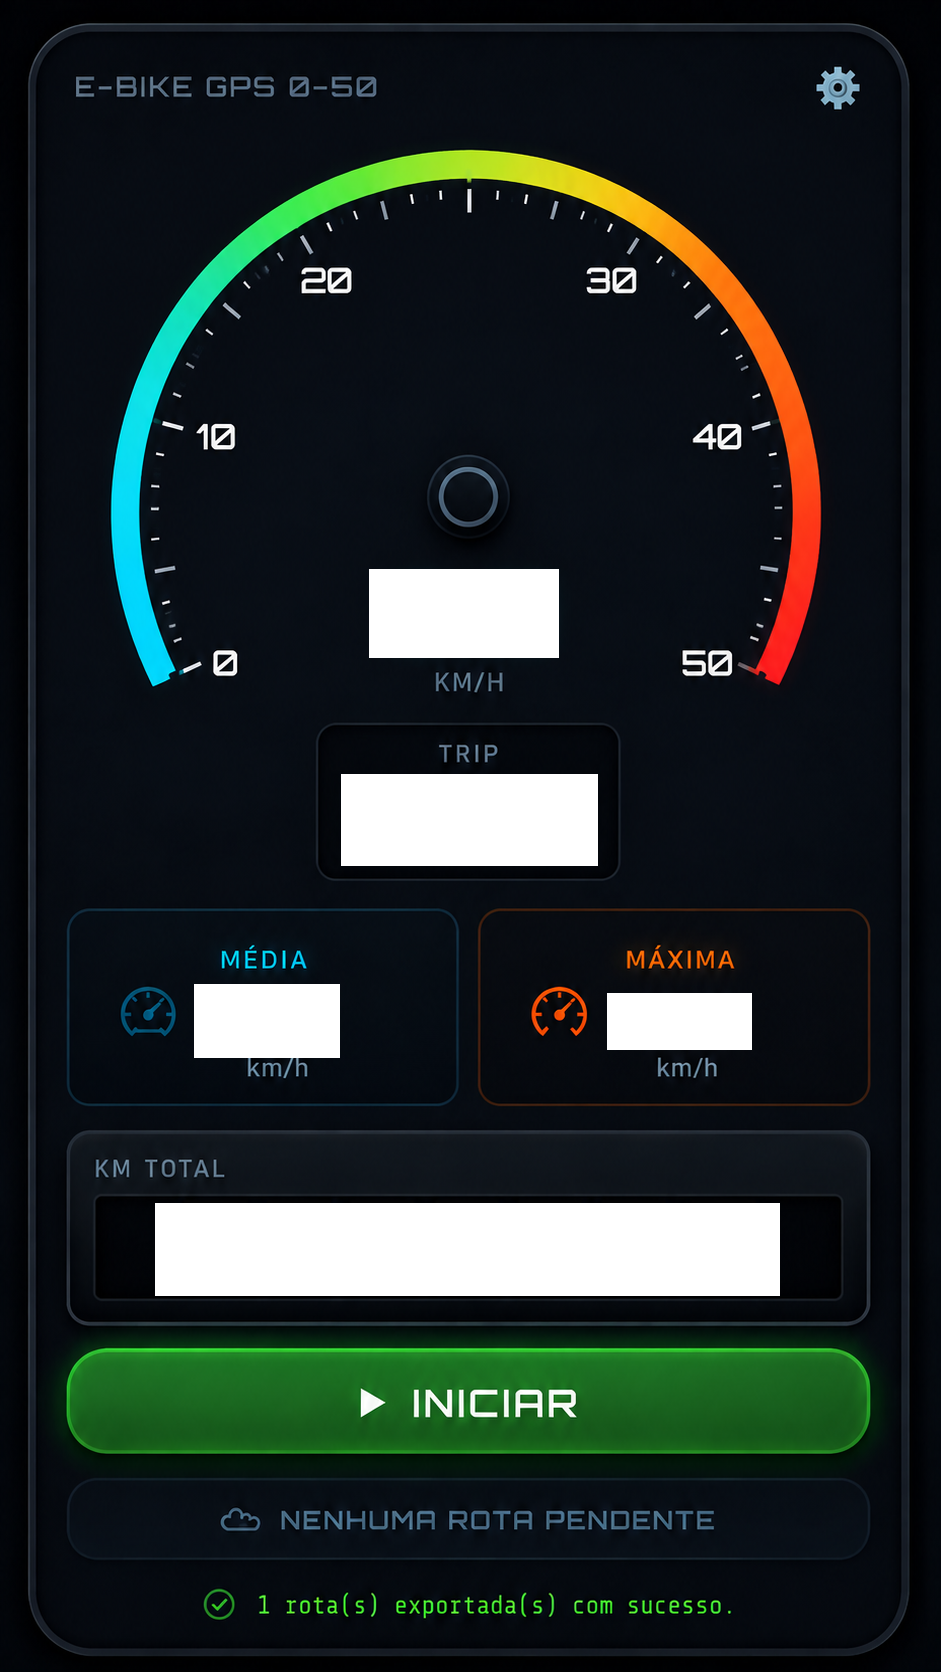
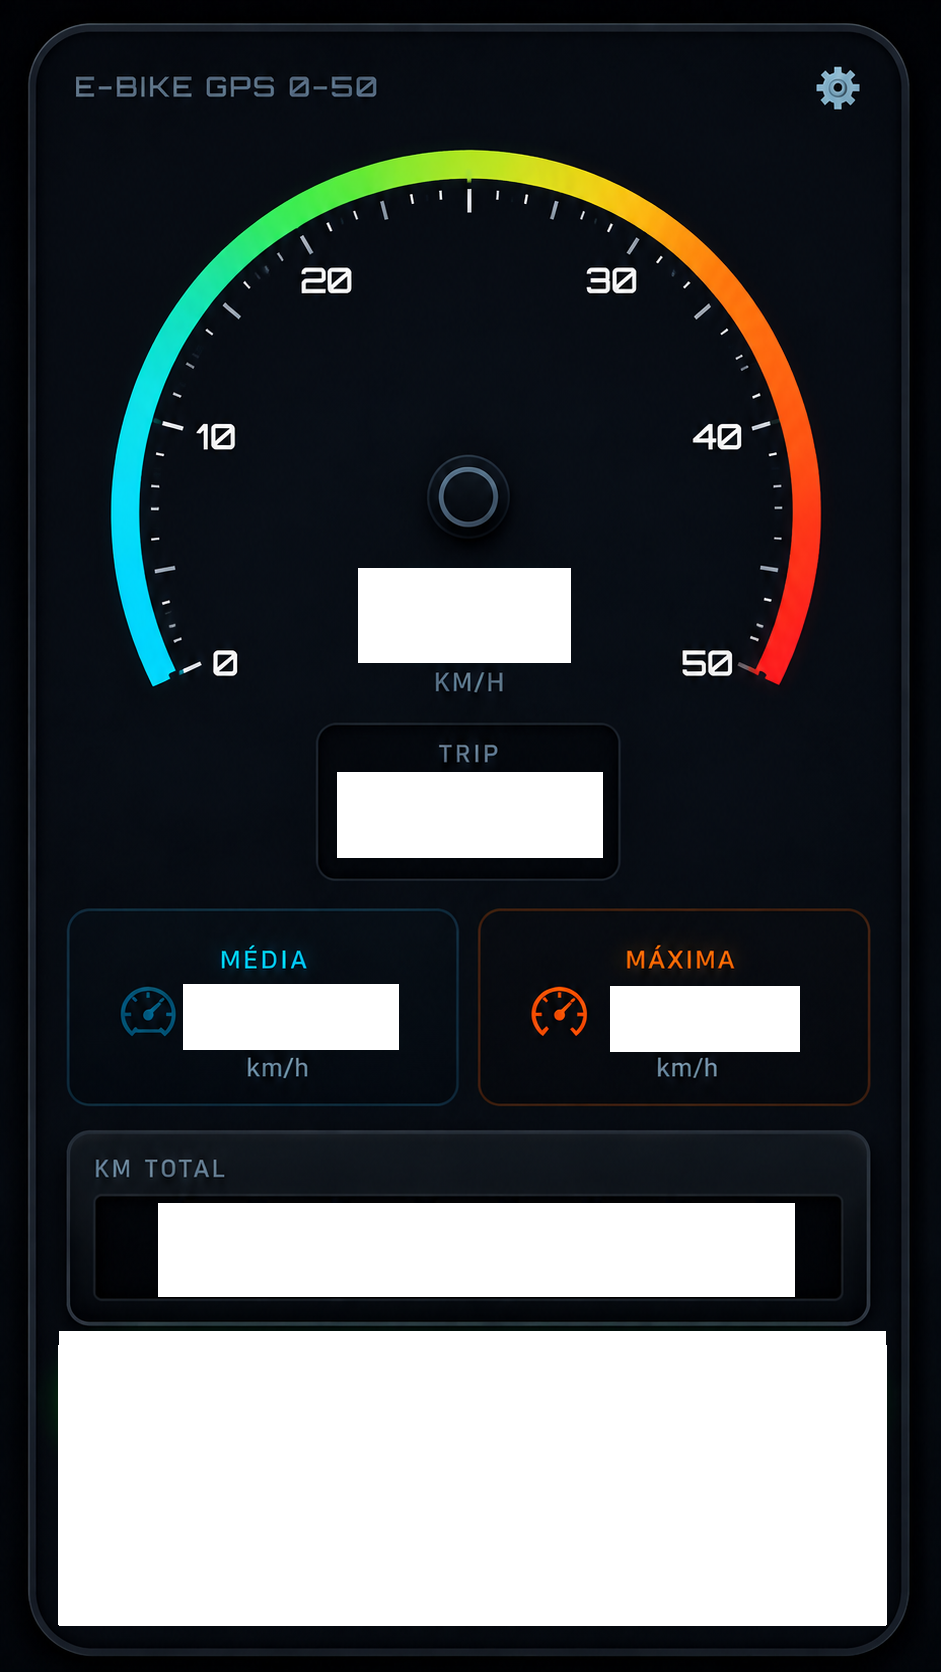
Atualização dos botoes e fundo

diff --git a/index.html b/index.html
@@ -28,7 +28,7 @@
             position: relative;
             width: 380px;
             height: 680px;
-            background-image: url('fundo.png'); /* Sua imagem ajustada com escala 0-50 */
+            background-image: url('fundo.png'); /* Sua imagem base */
             background-size: contain;
             background-repeat: no-repeat;
             background-position: center;
@@ -189,73 +189,124 @@
             margin: 0 -1px;
         }
 
-        /* --- CONTROLES SOBREPOSTOS (BOTÕES DO PNG) --- */
-        .btn-control-overlay {
+        /* --- OVERLAY 6: CONTROLES ESTILIZADOS SOBREPOSTOS --- */
+        .controls-wrapper {
             position: absolute;
-            top: 541px;
-            left: 30px;
-            width: 320px;
-            height: 44px;
-            background: transparent;
-            border: none;
+            top: 538px;
+            left: 25px;
+            width: 330px;
+            display: flex;
+            flex-direction: column;
+            gap: 12px;
+            align-items: center;
+            z-index: 10;
+        }
+
+        .btn-row {
+            display: flex;
+            width: 100%;
+            gap: 10px;
+        }
+
+        /* Botão INICIAR / PAUSAR */
+        .btn-control-overlay {
+            flex: 1;
+            height: 46px;
+            background: linear-gradient(180deg, #2e7d32 0%, #1b5e20 100%);
+            border: 1px solid #4caf50;
+            border-radius: 23px;
             cursor: pointer;
-            z-index: 5;
             font-family: 'Orbitron', sans-serif;
-            font-size: 1rem;
+            font-size: 0.95rem;
             font-weight: 900;
             letter-spacing: 2px;
             color: #ffffff;
             display: flex;
             align-items: center;
             justify-content: center;
-            text-shadow: 0 2px 4px rgba(0,0,0,0.8);
+            text-shadow: 0 2px 4px rgba(0,0,0,0.6);
+            box-shadow: 0 4px 15px rgba(46, 125, 50, 0.4), inset 0 1px 1px rgba(255, 255, 255, 0.3);
+            transition: all 0.2s ease;
         }
 
+        .btn-control-overlay:hover {
+            background: linear-gradient(180deg, #388e3c 0%, #2e7d32 100%);
+            box-shadow: 0 6px 20px rgba(76, 175, 80, 0.6), inset 0 1px 1px rgba(255, 255, 255, 0.4);
+        }
+
+        .btn-control-overlay:active {
+            transform: scale(0.98);
+        }
+
+        /* Estado quando está em PAUSA */
+        .btn-control-overlay.paused {
+            background: linear-gradient(180deg, #f57c00 0%, #e65100 100%);
+            border-color: #ff9800;
+            box-shadow: 0 4px 15px rgba(245, 124, 0, 0.4);
+        }
+
+        /* Botão PARAR */
         .btn-stop-overlay {
-            position: absolute;
-            top: 541px;
-            left: 270px;
-            width: 80px;
-            height: 44px;
-            background: linear-gradient(180deg, #ff1744 0%, #b2102f 100%);
-            border: none;
-            border-radius: 22px;
+            width: 90px;
+            height: 46px;
+            background: linear-gradient(180deg, #d32f2f 0%, #b71c1c 100%);
+            border: 1px solid #ef5350;
+            border-radius: 23px;
             color: white;
             font-family: 'Orbitron', sans-serif;
             font-size: 0.8rem;
             font-weight: 900;
             cursor: pointer;
-            z-index: 6;
-            box-shadow: 0 4px 15px rgba(255, 23, 68, 0.4);
+            box-shadow: 0 4px 15px rgba(211, 47, 47, 0.4), inset 0 1px 1px rgba(255, 255, 255, 0.3);
+            transition: all 0.2s ease;
         }
 
+        .btn-stop-overlay:hover {
+            background: linear-gradient(180deg, #e53935 0%, #c62828 100%);
+            box-shadow: 0 6px 20px rgba(239, 83, 80, 0.6);
+        }
+
+        /* Botão EXPORTAR ROTAS */
         .btn-export-overlay {
-            position: absolute;
-            top: 597px;
-            left: 30px;
-            width: 320px;
-            height: 32px;
-            background: transparent;
-            border: none;
-            color: #4db3c2;
+            width: 100%;
+            height: 38px;
+            background: linear-gradient(180deg, #102a38 0%, #071722 100%);
+            border: 1px solid #1c4e68;
+            border-radius: 19px;
+            color: #00d8ff;
             font-family: 'Share Tech Mono', monospace;
-            font-size: 0.75rem;
+            font-size: 0.8rem;
+            font-weight: bold;
+            letter-spacing: 1px;
             cursor: pointer;
-            z-index: 5;
             display: flex;
             align-items: center;
             justify-content: center;
+            box-shadow: 0 4px 12px rgba(0, 0, 0, 0.5), inset 0 1px 1px rgba(0, 216, 255, 0.2);
+            transition: all 0.2s ease;
         }
 
+        .btn-export-overlay:disabled {
+            opacity: 0.4;
+            cursor: not-allowed;
+            border-color: #2a3b47;
+            color: #526c7d;
+            box-shadow: none;
+        }
+
+        .btn-export-overlay:not(:disabled):hover {
+            background: linear-gradient(180deg, #163a4e 0%, #0c2333 100%);
+            border-color: #00d8ff;
+            box-shadow: 0 0 12px rgba(0, 216, 255, 0.3);
+        }
+
+        /* Status da Rota */
         .route-status-overlay {
-            position: absolute;
-            top: 636px;
-            left: 30px;
-            width: 320px;
             text-align: center;
-            font-size: 0.65rem;
+            font-size: 0.7rem;
             font-family: 'Share Tech Mono', monospace;
             color: #00e676;
+            margin-top: -2px;
         }
 
         .route-status-overlay.warn { color: #ffb300; }
@@ -369,13 +420,16 @@
             <span class="digit digit-red">0</span>
         </div>
 
-        <!-- OVERLAY 6: CONTROLES DE BOTÃO -->
-        <button id="btn-toggle" class="btn-control-overlay">► INICIAR</button>
-        <button id="btn-stop" class="btn-stop-overlay" style="display: none;">PARAR</button>
-        
-        <!-- EXPORTAÇÃO E STATUS -->
-        <button id="btn-export" class="btn-export-overlay">☁ EXPORTAR ROTAS</button>
-        <div id="route-status" class="route-status-overlay"></div>
+        <!-- OVERLAY 6: CONTROLES ESTILIZADOS SOBREPOSTOS -->
+        <div class="controls-wrapper">
+            <div class="btn-row">
+                <button id="btn-toggle" class="btn-control-overlay">► INICIAR</button>
+                <button id="btn-stop" class="btn-stop-overlay" style="display: none;">PARAR</button>
+            </div>
+            
+            <button id="btn-export" class="btn-export-overlay">☁ EXPORTAR ROTAS</button>
+            <div id="route-status" class="route-status-overlay"></div>
+        </div>
 
     </div>
 
@@ -432,7 +486,7 @@
         const MIN_GAUGE_SPEED = 20;
         const MAX_GAUGE_SPEED = 200;
 
-        // --- INTEGRATÇÃO COM GOOGLE APPS SCRIPT ---
+        // --- INTEGRAÇÃO COM GOOGLE APPS SCRIPT ---
         const GOOGLE_SCRIPT_URL = "https://script.google.com/macros/s/AKfycbw4STNR77PoKLSbCaqGuCDgmK5CwGn-7ZRoLpkiRqxrfz4ARGfneUr4XNCnrQKMaDjIBw/exec";
         const MAX_LOCAL_ROUTES = 10;
         const ROUTES_STORAGE_KEY = 'ebike_routes';
@@ -882,6 +936,7 @@
                 isRunning = true;
                 isPaused = false;
                 btnToggle.innerText = '❚❚ PAUSAR';
+                btnToggle.classList.remove('paused');
                 btnStop.style.display = 'block';
                 requestWakeLock();
                 startGPS();
@@ -890,6 +945,7 @@
                 isPaused = true;
                 routePauseStartedAt = Date.now();
                 btnToggle.innerText = '▶ CONTINUAR';
+                btnToggle.classList.add('paused');
                 requestWakeLock();
                 bellElement.classList.remove('bell-alarm');
                 updateSpeed(0);
@@ -900,6 +956,7 @@
                 }
                 isPaused = false;
                 btnToggle.innerText = '❚❚ PAUSAR';
+                btnToggle.classList.remove('paused');
                 requestWakeLock();
             }
         });
@@ -919,6 +976,7 @@
                 maxSpeedDisplay.innerText = '0.0';
 
                 btnToggle.innerText = '► INICIAR';
+                btnToggle.classList.remove('paused');
                 btnStop.style.display = 'none';
 
                 releaseWakeLock();
